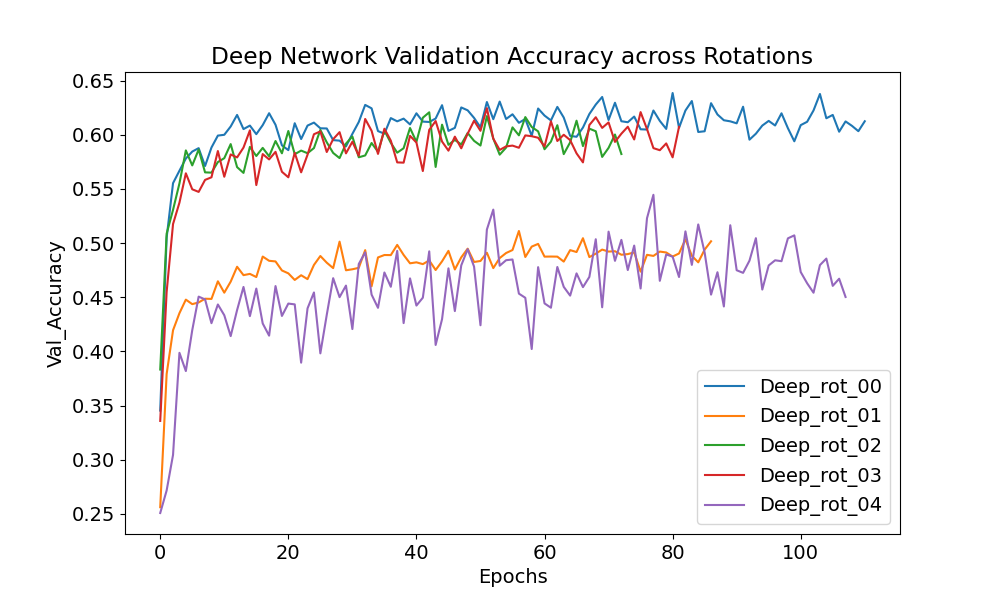
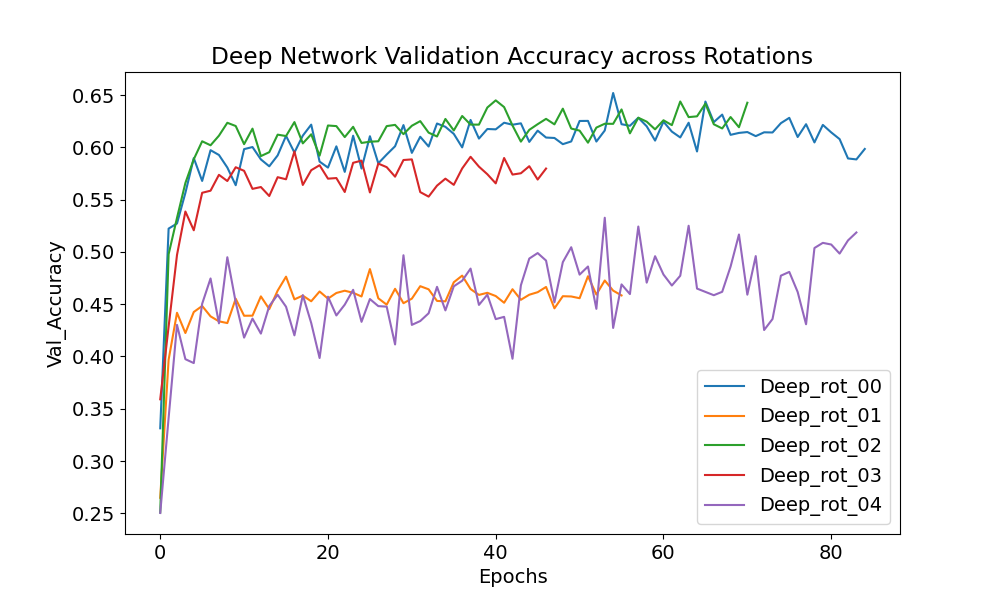
store_model update

diff --git a/hw3/plotter.py b/hw3/plotter.py
@@ -45,7 +45,7 @@ def create_parser():
     parser.add_argument('--path', type = str, default = '/home/cs504305/deep_learning_practice/homework/hw3/results',help = 'Provide path to the result file')
     parser.add_argument('--base', type = str, default = 'bmi_*results.pkl', help= 'Provide Filename structure, may use * for wildcard')
     parser.add_argument('--shallow_path', type = str, default = '/home/cs504305/deep_learning_practice/homework/hw3/results/shallow/run2/', help= 'Provide Path to Shallow Network')
-    parser.add_argument('--deep_path', type = str, default = '/home/cs504305/deep_learning_practice/homework/hw3/results/deep/run6/', help= 'Provide path to Deep Network')
+    parser.add_argument('--deep_path', type = str, default = '/home/cs504305/deep_learning_practice/homework/hw3/results/deep/run7/', help= 'Provide path to Deep Network')
     parser.add_argument('--shallow_base', type = str, default = 'image*rot*_results.pkl', help= 'Provide Filename structure for shallow results, may use * for wildcard')
     parser.add_argument('--deep_base', type = str, default = 'image*rot*_results.pkl', help= 'Provide Filename structure for Deep results, may use * for wildcard')
     # Print Figure 1 only
@@ -95,14 +95,14 @@ def plot_results(epochs = None, data1 = None, data2 = None, data3 = None, data4 
         plt.title(title)
 
     plt.savefig("plots/Fig1_%s.png"%title)
-    print("Figure Saved!")
+    print('Figure Saved: %s'%title)
     plt.clf()
     
     return 0
 
 def plot_hist(
-    data1 = None 
-    data2 = None 
+    data1 = None, 
+    data2 = None, 
     title = "Hello"
 ):
     if data2 is not None:
@@ -118,8 +118,8 @@ def plot_hist(
     # plt.set_title('stacked bar')
     plt.savefig("plots/Fig3_%s.png"%title)
     plt.clf()
-
-return 0
+    print('Figure Saved: %s'%title)
+    return 0
     
 
 def prepare_result(results):
@@ -163,11 +163,6 @@ if __name__ == "__main__":
     # Make the results in plottable format
     deep_val_loss, deep_val_accuracy, deep_test_accuracy = prepare_result(deep)
     shallow_val_loss, shallow_val_accuracy, shallow_test_accuracy = prepare_result(shallow)
-    
-    print(shallow_test_accuracy)
-    print(deep_test_accuracy)
-    deep_test_accuracy = [i + 0.2 for i in deep_test_accuracy]
-    
     
 
     '''
@@ -242,13 +237,11 @@ if __name__ == "__main__":
         # Plot Figure 3 
         
         plot_hist(
-            data1 = shallow_test_accuracy
-            data2 = deep_test_accuracy
+            data1 = shallow_test_accuracy,
+            data2 = deep_test_accuracy,
             title = "Test Accuracy comparision"
         )
         
         # Plot Figure 4 
         
-        plot_images(
-            
-        )
+        #plot_images()
